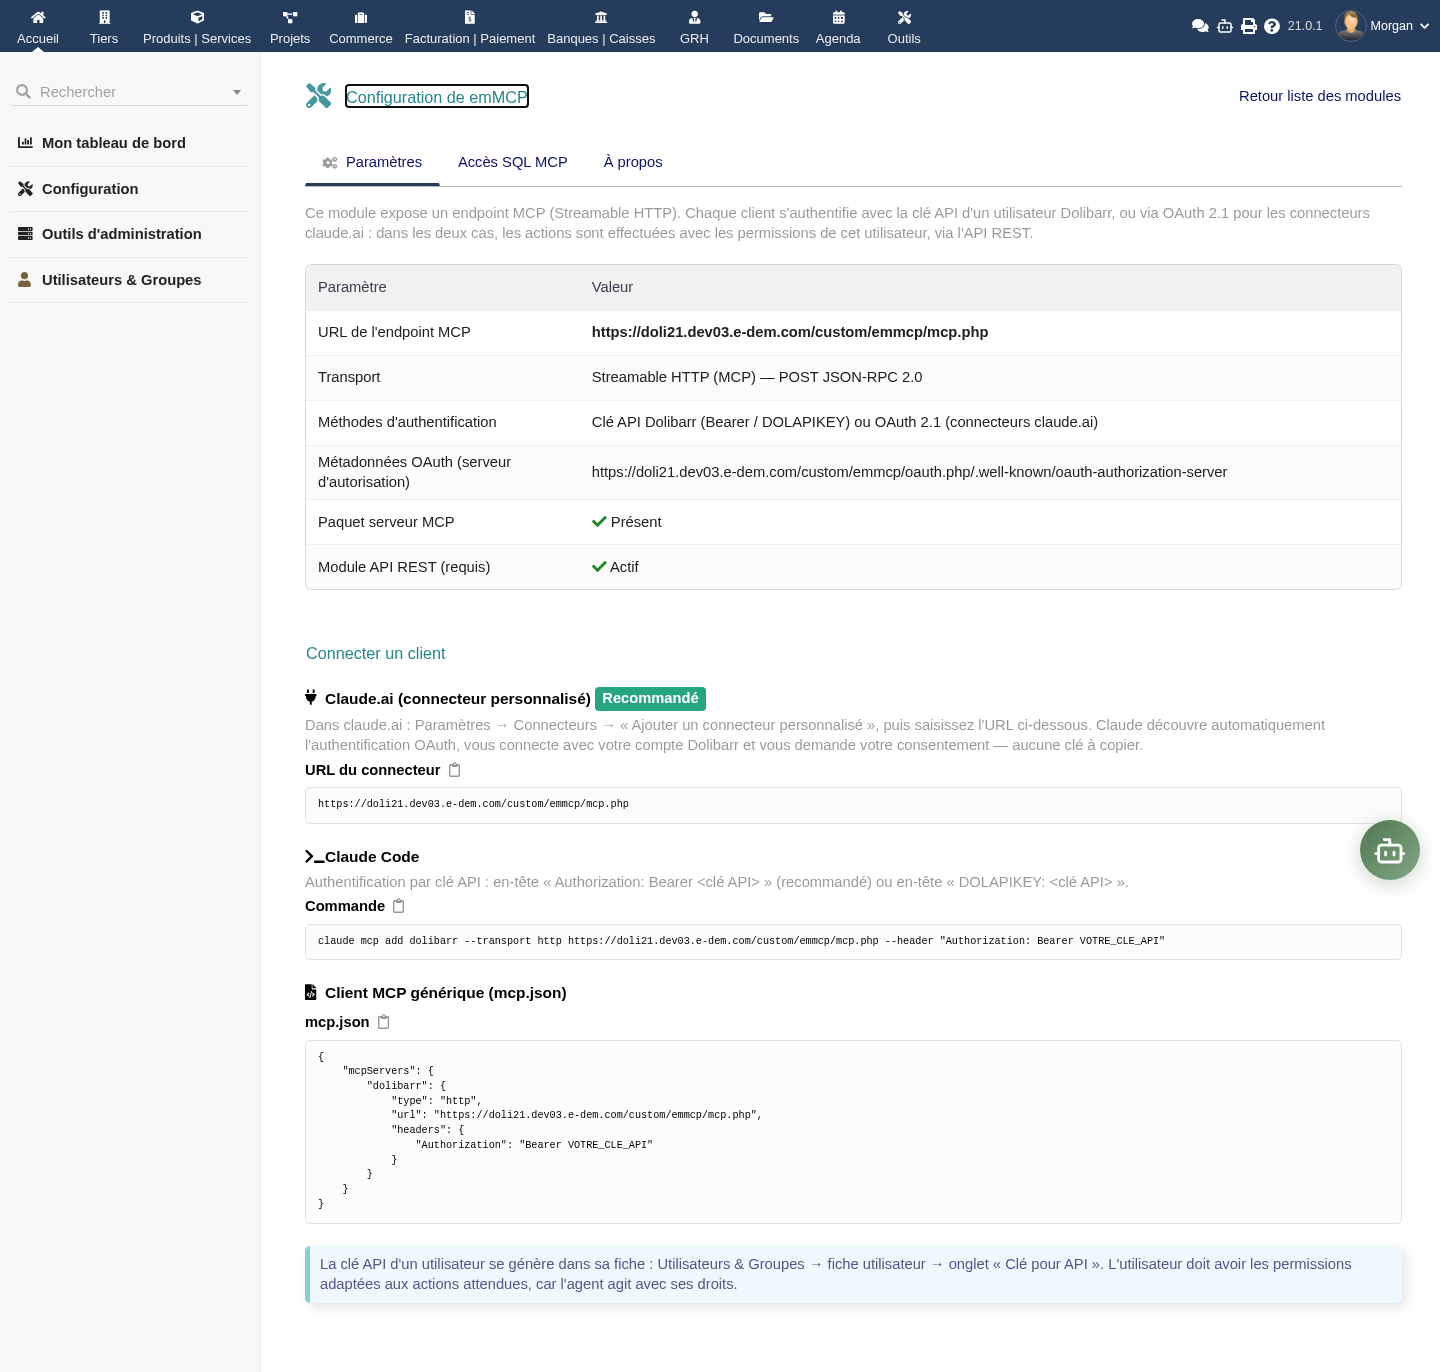
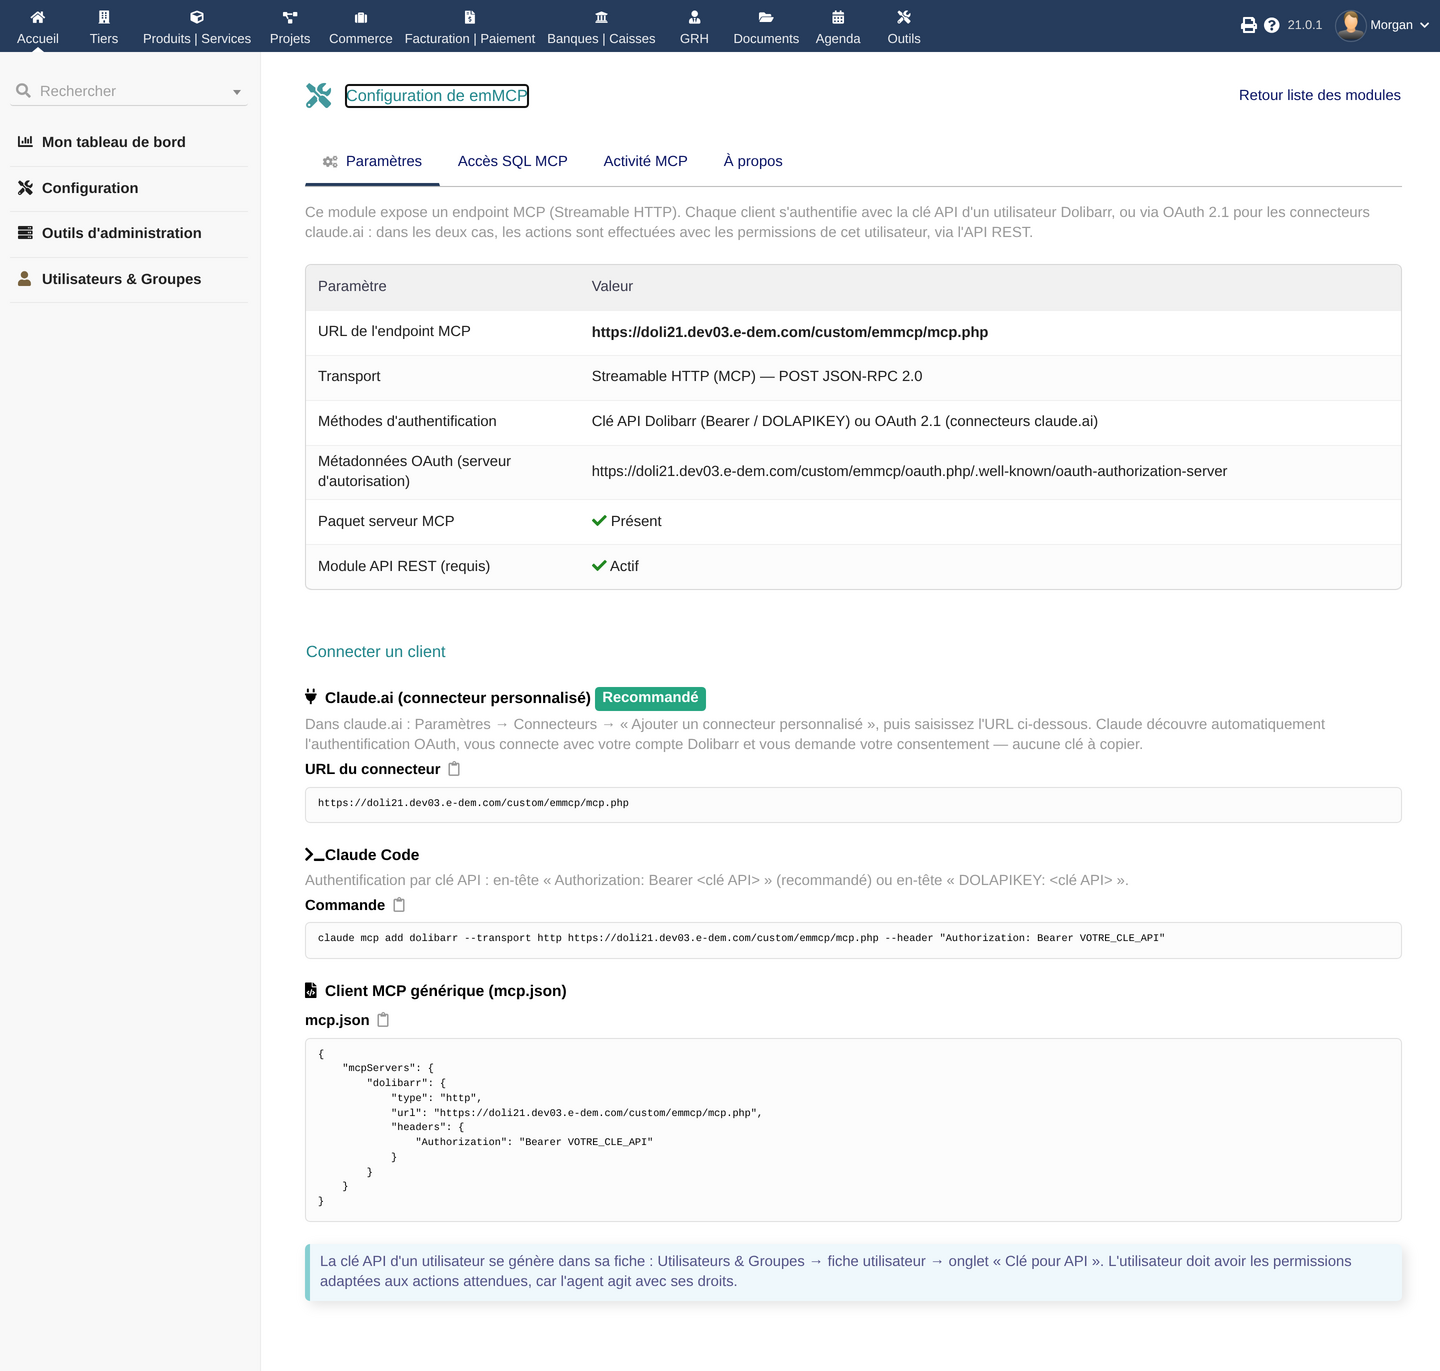
fix(oauth): make the consent screen presentable, and 1.5.1
The page a user lands on when claude.ai asks for access was laid out
badly. It runs with NOREQUIREMENU, and without a menu Dolibarr still
builds its table layout: #id-right stayed a table cell that shrinks to
its content, so "margin: auto" had no width to share and the card sat
against the left edge. The two wrappers now get a real width for this
page only, and the card is a proper centred panel.

With it: the title no longer carries the focus ring Dolibarr draws after
focusing its tabindex="-1" heading — the heading is not interactive, so
the ring said nothing — the padlock is legible rather than near-white,
and the two buttons are explicit instead of inheriting a theme style
that rendered "accept" as white text on a pale background.

The flow is untouched: same form, same CSRF token, same parameters,
same codes. Verified end to end — consent submitted, authorization code
issued for the right user with the right audience.

Release plumbing, while here:

- .dolistore.conf (product 3420) and the dolistore-publish targets, so
  the listing is updated the same way as the other modules instead of
  by hand. publish-all does EMGateway then DoliStore.
- check-sql and check-audit, mirroring check-oauth. Those two libraries
  were bundled with no check at all, and that gap shipped: the 1.5.0
  package carried a failureReason() that existed only in an uncommitted
  working tree, so the released code was in no commit and a build from
[…]

diff --git a/oauth.php b/oauth.php
@@ -234,17 +234,43 @@ switch ($emmcp_route) {
 
 		$clientLabel = !empty($client->client_name) ? $client->client_name : $client->client_id;
 
-		print '<div class="center" style="max-width:600px;margin:40px auto;">';
-		print load_fiche_titre($langs->trans('EmmcpOAuthConsentTitle'), '', 'lock');
-		print '<div class="info" style="text-align:left;">';
+		// This page runs with NOREQUIREMENU, and without a menu Dolibarr still
+		// lays the content out in a table: #id-right stays a table-cell that
+		// shrinks to its content, so the usual "margin: auto" has no width to
+		// share and the card sticks to the left. Give the two wrappers a real
+		// width for this page only, then centre the card inside them.
+		print '<style>
+#id-right { display: block !important; width: 100% !important; }
+#id-right > .fiche { width: auto !important; }
+.emmcp-consent { max-width: 540px; margin: 60px auto; padding: 32px 36px 28px; background: #fff;
+	border: 1px solid #e3e3e3; border-radius: 10px; box-shadow: 0 2px 10px rgba(0,0,0,.07); }
+.emmcp-consent h1 { margin: 0 0 22px; font-size: 1.35em; font-weight: 600; text-align: center; line-height: 1.3;
+	border: 0; background: none; padding: 0; color: #1a1a1a; }
+/* Dolibarr puts tabindex="-1" on the heading and focuses it on load, which
+   draws a focus ring around the title. The heading is not interactive, so
+   the ring carries no information here. */
+.emmcp-consent h1:focus { outline: none; }
+.emmcp-consent h1 .fa-lock { color: #2b7ab5 !important; margin-right: 9px; }
+.emmcp-consent .emmcp-intro { margin: 0 0 6px; line-height: 1.55; }
+.emmcp-consent ul { margin: 18px 0 26px; padding-left: 22px; line-height: 1.6; }
+.emmcp-consent .emmcp-actions { text-align: center; margin-top: 4px; }
+.emmcp-consent .emmcp-actions button { margin: 0 6px; padding: 10px 26px; font-size: 1em; font-weight: 600;
+	border-radius: 5px; cursor: pointer; background-image: none; text-shadow: none; }
+.emmcp-consent .emmcp-actions .emmcp-accept { background: #2b7ab5; border: 1px solid #24689b; color: #fff; }
+.emmcp-consent .emmcp-actions .emmcp-accept:hover { background: #24689b; }
+.emmcp-consent .emmcp-actions .emmcp-deny { background: #f2f2f2; border: 1px solid #ccc; color: #444; }
+.emmcp-consent .emmcp-actions .emmcp-deny:hover { background: #e6e6e6; }
+</style>';
+
+		print '<div class="emmcp-consent">';
+		print '<h1>'.img_picto('', 'lock', 'class="pictofixedwidth"').dol_escape_htmltag($langs->trans('EmmcpOAuthConsentTitle')).'</h1>';
+		print '<div class="info emmcp-intro">';
 		print $langs->trans('EmmcpOAuthConsentIntro', '<strong>'.dol_escape_htmltag($clientLabel).'</strong>', '<strong>'.dol_escape_htmltag($user->login).'</strong>');
 		print '</div>';
-		print '<div style="text-align:left;margin:16px 0;">';
 		print '<ul>';
 		print '<li>'.$langs->trans('EmmcpOAuthConsentScope1').'</li>';
 		print '<li>'.$langs->trans('EmmcpOAuthConsentScope2').'</li>';
 		print '</ul>';
-		print '</div>';
 
 		print '<form method="POST" action="'.dol_escape_htmltag($issuer.'/authorize').'">';
 		print '<input type="hidden" name="token" value="'.newToken().'">';
@@ -252,8 +278,10 @@ switch ($emmcp_route) {
 		foreach ($params as $k => $v) {
 			print '<input type="hidden" name="'.$k.'" value="'.dol_escape_htmltag($v).'">';
 		}
-		print '<button type="submit" name="decision" value="accept" class="button buttongen marginrightonly">'.$langs->trans('EmmcpOAuthAccept').'</button>';
-		print '<button type="submit" name="decision" value="deny" class="button buttongen button-cancel">'.$langs->trans('EmmcpOAuthDeny').'</button>';
+		print '<div class="emmcp-actions">';
+		print '<button type="submit" name="decision" value="accept" class="button emmcp-accept">'.$langs->trans('EmmcpOAuthAccept').'</button>';
+		print '<button type="submit" name="decision" value="deny" class="button emmcp-deny">'.$langs->trans('EmmcpOAuthDeny').'</button>';
+		print '</div>';
 		print '</form>';
 		print '</div>';
 

diff --git a/core/modules/modEmmcp.class.php b/core/modules/modEmmcp.class.php
@@ -52,7 +52,7 @@ class modEmmcp extends DolibarrModules
 		$this->editor_url = 'https://www.e-dem.com';
 		// Keep in sync with EmmcpMigrations::MODULE_VERSION, or migrations
 		// silently stop running on existing installs.
-		$this->version = '1.5.0';
+		$this->version = '1.5.1';
 		// Native Dolibarr "update available" check (compares this URL's answer to $this->version)
 		$this->url_last_version = 'https://www.e-dem.com/dolibarr/emmcp/last_version.php';
 		$this->const_name = 'MAIN_MODULE_'.strtoupper($this->name);

diff --git a/marketing/screenshots/SCREENSHOTS.md b/marketing/screenshots/SCREENSHOTS.md
@@ -1,7 +1,8 @@
 # Captures d'écran emMCP
 
-Capturées à 1440 px de large, page entière, sur une instance Dolibarr 21
-en français.
+Capturées à 1440 px de large, sur une instance Dolibarr 21 en français.
+Les captures de 2026-09-28 ont été prises en 2880 px (deviceScaleFactor 2)
+puis réduites à 1440 px, ce qui donne un rendu de texte plus net.
 
 ## `emmcp_admin_setup.png`
 
@@ -30,6 +31,42 @@ Dolibarr », « Opt-in individuel » et « Accès effectif », le périmètre re
 *Légende suggérée* : « L'accès SQL en lecture seule : désactivé par défaut,
 autorisé utilisateur par utilisateur, périmètre refusé explicite et journal
 des requêtes. »
+
+
+## `emmcp_activity_log.png`
+
+**La capture la plus parlante pour le DoliStore.** Cadrage sur le tableau des
+appels réellement reçus : date, utilisateur, méthode, outil appelé, durée,
+état, et les paramètres de chaque appel.
+
+Produite en passant de vrais appels MCP sur l'instance (initialize, tools/list,
+puis dolibarr_list sur factures / tiers / produits, dolibarr_get, et
+dolibarr_environment), depuis un client déclaré « claude-ai ».
+
+C'est la seule capture qui montre le module **en train de fonctionner** plutôt
+que configuré. C'est celle qui répond à la demande du DoliStore : « descriptive
+images illustrating the module's functionality ».
+
+*Légende suggérée* : « Chaque appel de l'agent est tracé : qui, quel outil,
+avec quels paramètres, en combien de temps. »
+
+## `emmcp_activity_full.png`
+
+La même page en entier : les réglages de journalisation (rétention, limite
+d'appels par utilisateur, seuil d'alerte par courriel) au-dessus du tableau.
+
+*Légende suggérée* : « Journalisation, quota d'appels par utilisateur et alerte
+par courriel : l'administrateur garde la main. »
+
+## `emmcp_oauth_consent.png`
+
+L'écran de consentement OAuth 2.1, tel que le voit l'utilisateur quand
+claude.ai demande l'accès. Nomme l'application, le compte Dolibarr concerné, et
+dit explicitement que l'agent n'aura pas plus de droits que l'utilisateur.
+
+Corrigé en 1.5.1 : la carte est centrée, le titre ne porte plus le contour
+de focus que Dolibarr dessine sur son `h1`, et les deux boutons sont lisibles.
+Aucune retouche sur la capture livrée.
 
 ## À refaire si
 

diff --git a/CHANGELOG.md b/CHANGELOG.md
@@ -1,5 +1,25 @@
 # Changelog
 
+## [1.5.1] - 2026-09-28
+
+### Fixed
+- **OAuth consent screen: presentation.** The page a user lands on when
+  claude.ai asks for access was laid out badly. It runs with `NOREQUIREMENU`,
+  and without a menu Dolibarr still builds its table layout: `#id-right`
+  stayed a table cell that shrinks to its content, so `margin: auto` had no
+  width to share and the card sat against the left edge. The two wrappers are
+  now given a real width for this page only, and the consent card is a proper
+  centred panel.
+
+  Along with it: the title no longer carries the focus ring Dolibarr draws
+  after focusing its `tabindex="-1"` heading — the heading is not interactive,
+  so the ring said nothing — the padlock is legible instead of near-white, and
+  the two buttons are explicit rather than inheriting a theme style that
+  rendered the accept button as white text on a pale background.
+
+  Nothing changed in the flow itself: the form, its CSRF token, the parameters
+  it carries and the codes it issues are untouched.
+
 ## [1.5.0] - 2026-09-04
 
 ### Added

diff --git a/docs/superpowers/specs/2026-07-28-mcp-readonly-sql-design.md b/docs/superpowers/specs/2026-07-28-mcp-readonly-sql-design.md
@@ -1,5 +1,14 @@
 # Requêtes SQL en lecture seule via le MCP Dolibarr — conception
 
+> **Périmé sur un point (28/09/2026).** Le compte MySQL dédié en lecture seule
+> décrit plus bas (`EMMCP_SQL_DB_USER` / `EMMCP_SQL_DB_PASSWORD`) a été
+> abandonné : il ne se configurait jamais en pratique. L'accès SQL utilise
+> désormais les identifiants Dolibarr habituels, sur une connexion séparée, et
+> la lecture seule est garantie par l'analyse de la requête
+> (refus `SQL_NOT_READ_ONLY`) plutôt que par les privilèges du compte.
+> Le reste du document tient toujours.
+
+
 Date : 2026-07-28
 Statut : validé (arbitrages tranchés par Morgan le 2026-07-28)
 Modules concernés : `dolibarr-mcp-server` (runtime partagé, MIT), `emmcp` (livrable prioritaire, GPL-3.0+), `dalfred` (réutilisation)
